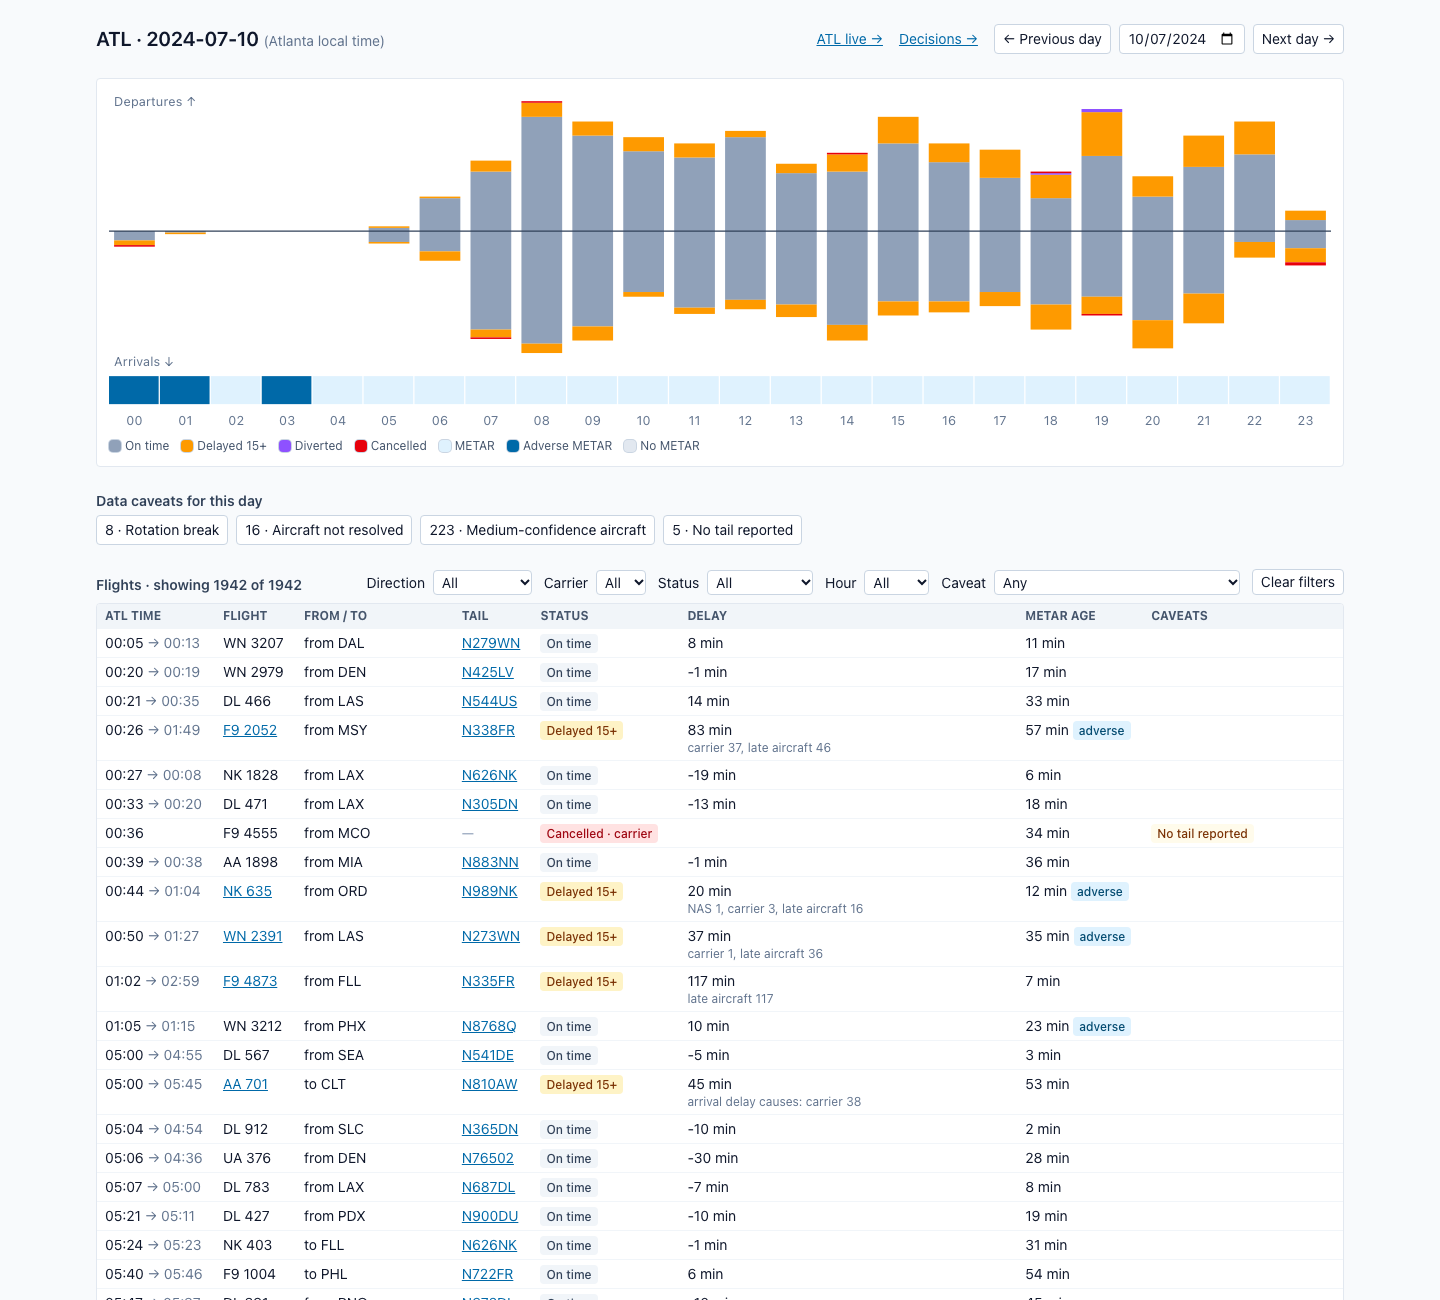
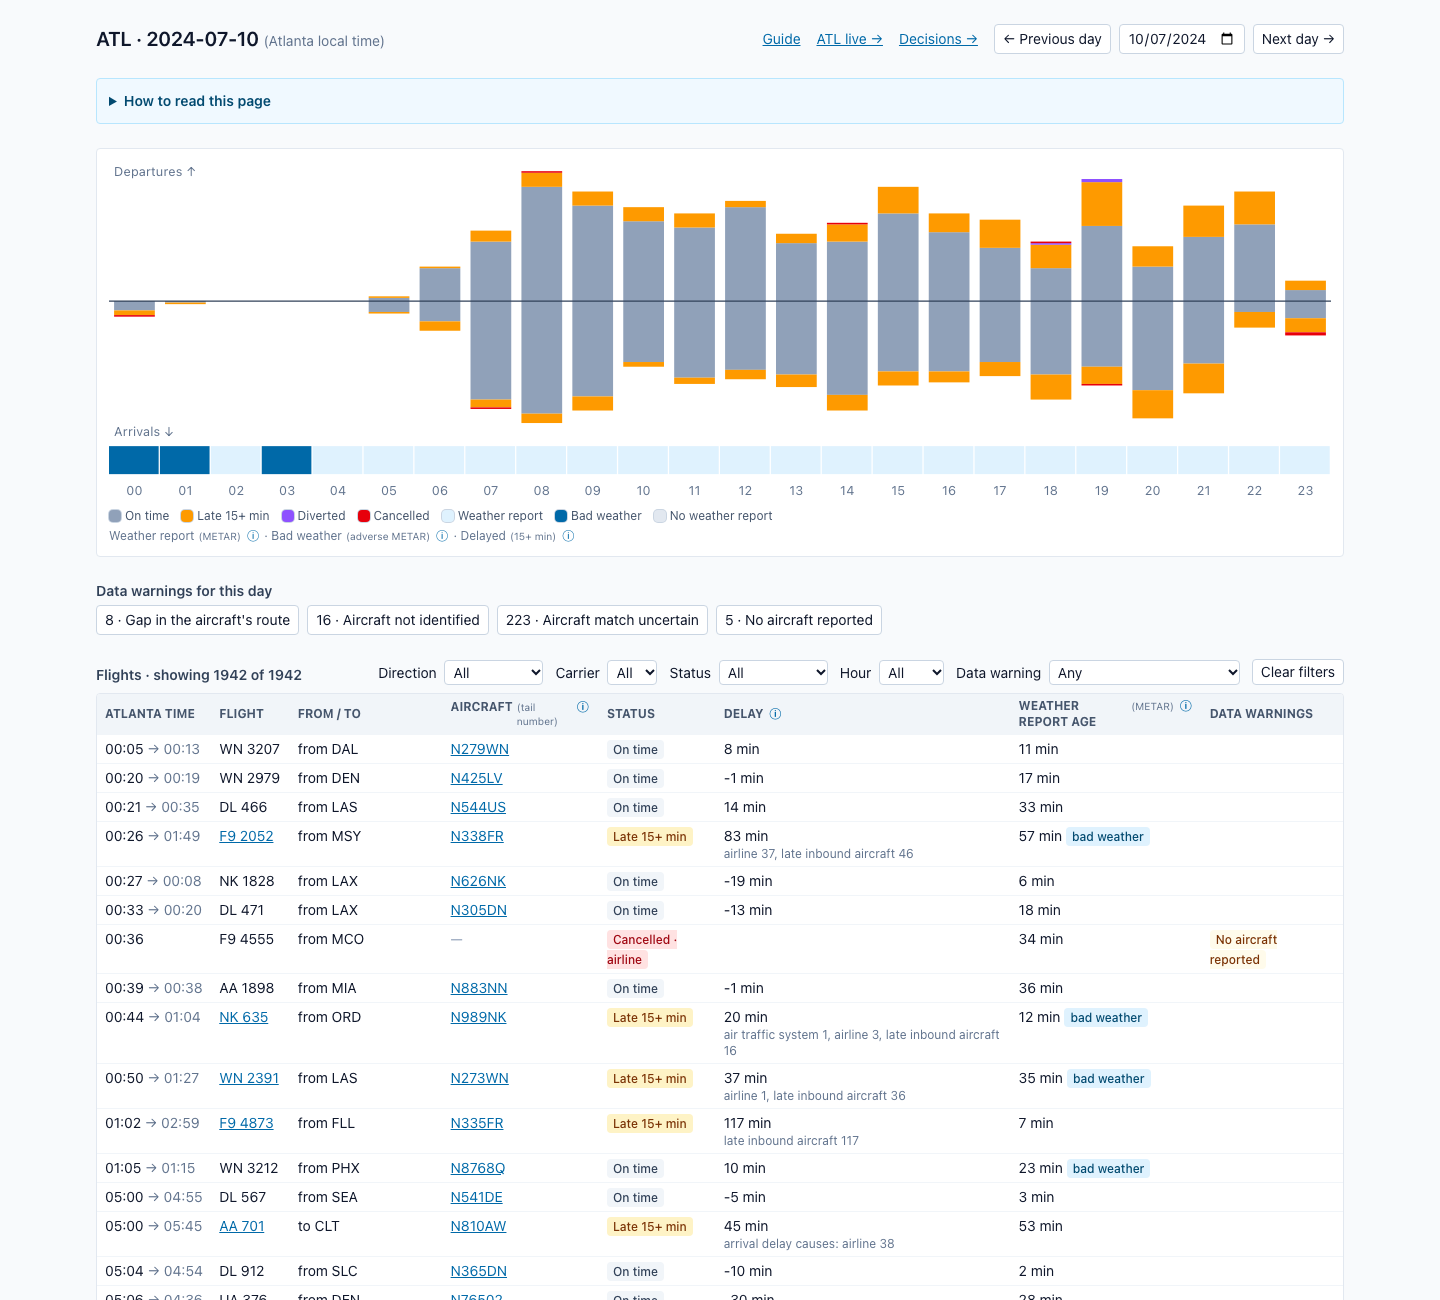
docs: welcome page and tour in README, screenshots, tour decision

diff --git a/README.md b/README.md
@@ -35,6 +35,12 @@ From the generated [Phase 6 report](docs/phase-6-report.md):
 
 ## The ops console
 
+**Start here.** The app opens on a welcome page that explains airline operations control in plain words, with a glossary of every term the console uses. A five-step tour walks through the July 19 outage: the hub's day, one aircraft's day, how its delay spreads, the chance its next flights are cancelled, and logging a decision. Every page also has a "How to read this page" box, and each industry term carries an ⓘ that explains it.
+
+![The welcome page and glossary](docs/screenshots/guide.png)
+
+![Tour step 3: a what-if delay puts the next flight at risk](docs/screenshots/tour-step-3.png)
+
 ![ATL on July 19, 2024](docs/screenshots/hub-2024-07-19.png)
 
 - **Pick a day, see the hub.** Departures and arrivals by local hour, split by status, over a strip of the METARs for the same hours. July 19 is a wall of cancellations under clear skies. July 10 is a normal day with storms.
@@ -107,7 +113,7 @@ cd web
 composer install && npm install
 cp .env.example .env && php artisan key:generate
 npm run build
-php artisan serve      # http://127.0.0.1:8000
+php artisan serve      # http://127.0.0.1:8000 opens the welcome page and tour
 ./vendor/bin/pest      # tests run against the loaded database
 ```
 

diff --git a/DECISIONS.md b/DECISIONS.md
@@ -345,3 +345,9 @@ Tradeoffs made while building flight-ops, newest last. Each entry says what was 
 - **Gave up:** nothing visible.
 - **Why:** a later decision on a flight the backtest never scored also has all-NULL risk, so NULLs can't tell "before" from "not scored".
 - **Revisit if:** never.
+
+## 2026-11-23: Run the tour on the real pages with a URL step, not an overlay library
+- **Chose:** a `?tour=N` query parameter read by a `TourBar` strip on the real console pages, with five steps over N102DN on July 19 (`web/resources/js/lib/tour.js`). Industry terms stay on screen as "plain word (TERM) ⓘ", defined once in `lib/glossary.js`, and the data warning chips take their names from it.
+- **Gave up:** arrows pointing at exact elements, and remembering tour progress across visits. A link that drops the parameter ends the tour.
+- **Why:** no dependency, nothing breaks when a layout changes, any step can be shared as a link, and the reader uses the real tool. Keeping the terms (rather than only plain words) keeps the domain vocabulary visible to readers who know it.
+- **Revisit if:** people get lost without element-level highlighting, or the console grows past a handful of pages.
